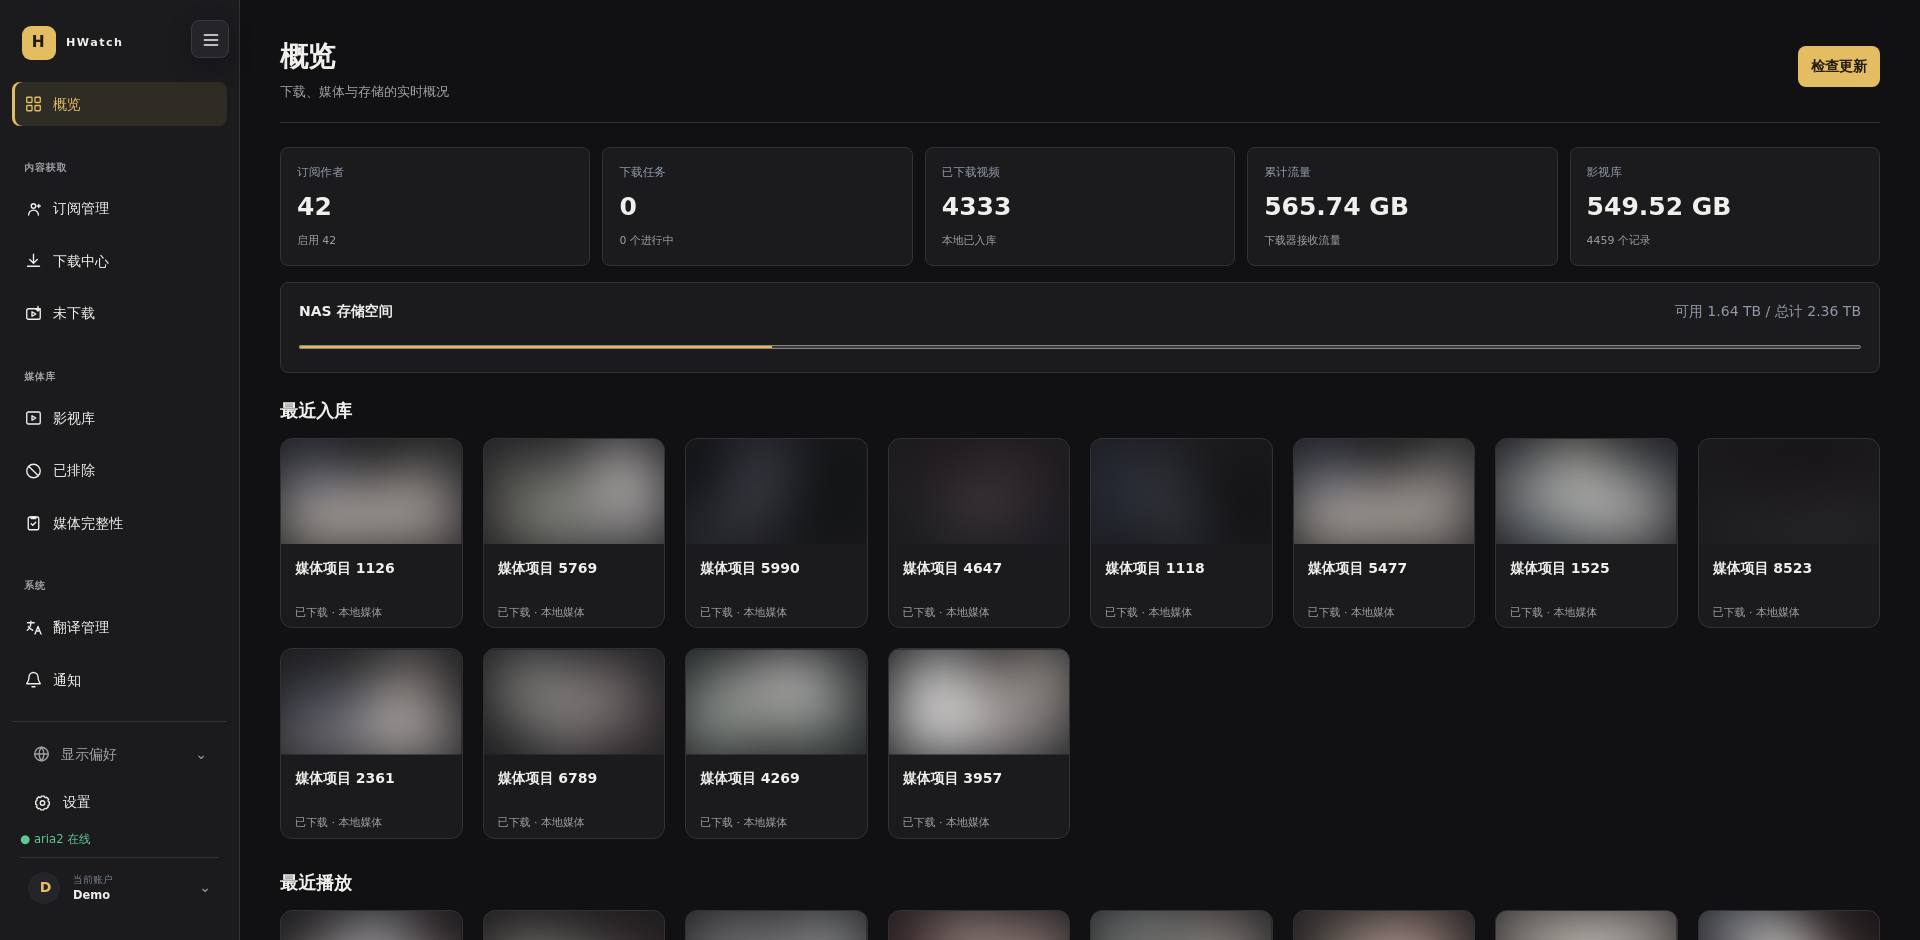
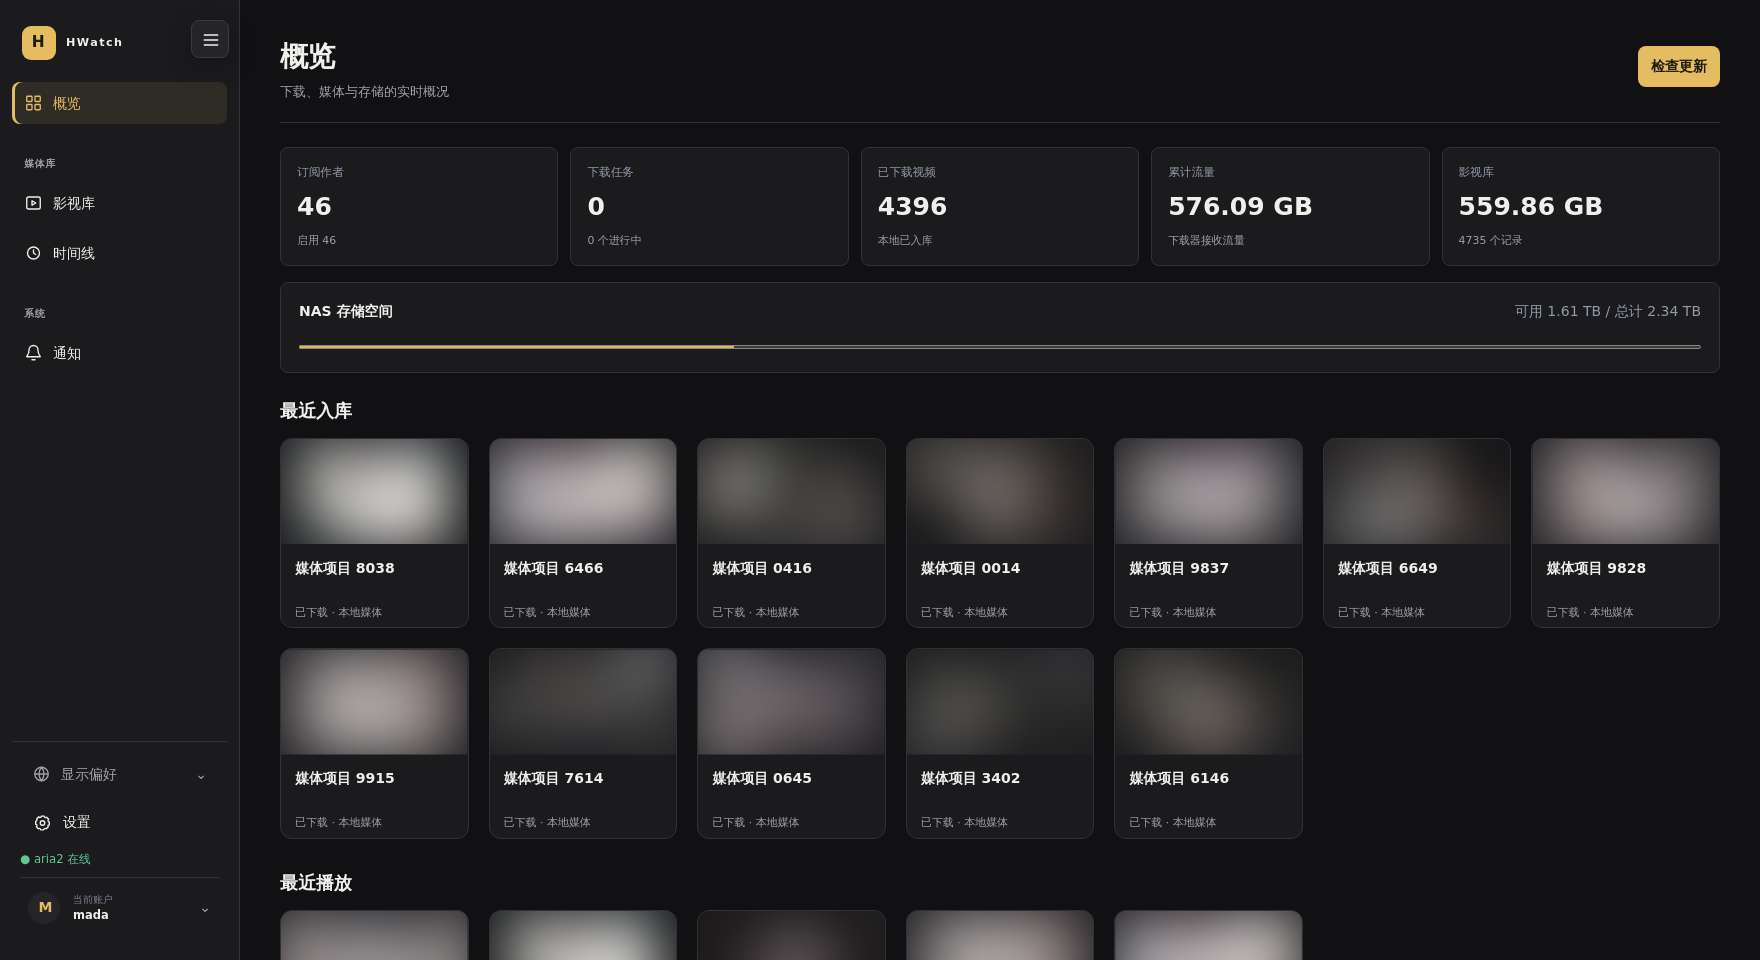
docs: refresh README features and screenshots

diff --git a/README.md b/README.md
@@ -18,6 +18,8 @@ Docs: [HTTP API V1](API_V1.md) · [OpenAPI 3.1](openapi.yaml) · [Roadmap](TODO.
 
 ![HWatch overview (demo mode)](docs/screenshots/dashboard.png)
 
+![Watch timeline (demo mode)](docs/screenshots/timeline.png)
+
 ## Features
 
 - Full-pagination creator subscriptions; builds a complete baseline on first run and auto-downloads new works afterwards
@@ -31,6 +33,10 @@ Docs: [HTTP API V1](API_V1.md) · [OpenAPI 3.1](openapi.yaml) · [Roadmap](TODO.
 - Plex TV layout, tvshow.nfo, per-episode NFO, posters and episode thumbnails
 - After download, ffprobe records H.264/H.265/AV1, audio codec, resolution, frame rate, bit rate, bit depth and container
 - In-app library browsing, search, pagination, preview and playback
+- Watch **timeline**: a per-day history of what you played, built from playback events
+- **Log center**: every subscription check is recorded with counts, duration and a step-by-step terminal-style log
+- **Random discovery**: a filter toggle that samples the whole library and re-rolls on each page
+- **Multi-user roles**: an `admin` role plus `view-only` accounts that can browse and play but cannot change settings or trigger downloads/deletes
 - Paste video-detail HTML to import
 - NAS disk usage and cumulative download traffic stats
 - Platform adapter registry; every source is integrated through an isolated adapter

diff --git a/README.zh-CN.md b/README.zh-CN.md
@@ -18,6 +18,8 @@
 
 ![HWatch 概览界面（演示模式）](docs/screenshots/dashboard.png)
 
+![观看时间线（演示模式）](docs/screenshots/timeline.png)
+
 ## 功能
 
 - 创作者页面全分页订阅，首次建立完整基线，后续新作品自动下载
@@ -31,6 +33,10 @@
 - Plex TV 目录、tvshow.nfo、单集 NFO、海报和单集封面
 - 下载完成后通过 ffprobe 记录 H.264/H.265/AV1、音频编码、分辨率、帧率、码率、位深和容器格式
 - 项目内影视库浏览、搜索、分页、预览和播放
+- **观看时间线**：按日期记录观看历史，播放即产生事件
+- **日志中心**：每次订阅检查都记录耗时、发现/新增/入队数量，并以终端风格展示分步日志
+- **随机发现**：影视库筛选面板里的开关，从全库随机抽样，翻页即换一批
+- **多用户角色**：`管理员` 与 `仅观看` 两种账号；仅观看账号只能浏览与播放，不能改设置或触发下载/删除
 - 粘贴视频详情 HTML 导入
 - NAS 磁盘空间与累计下载流量统计
 - 平台适配器注册表；当前来源均通过独立适配器接入
